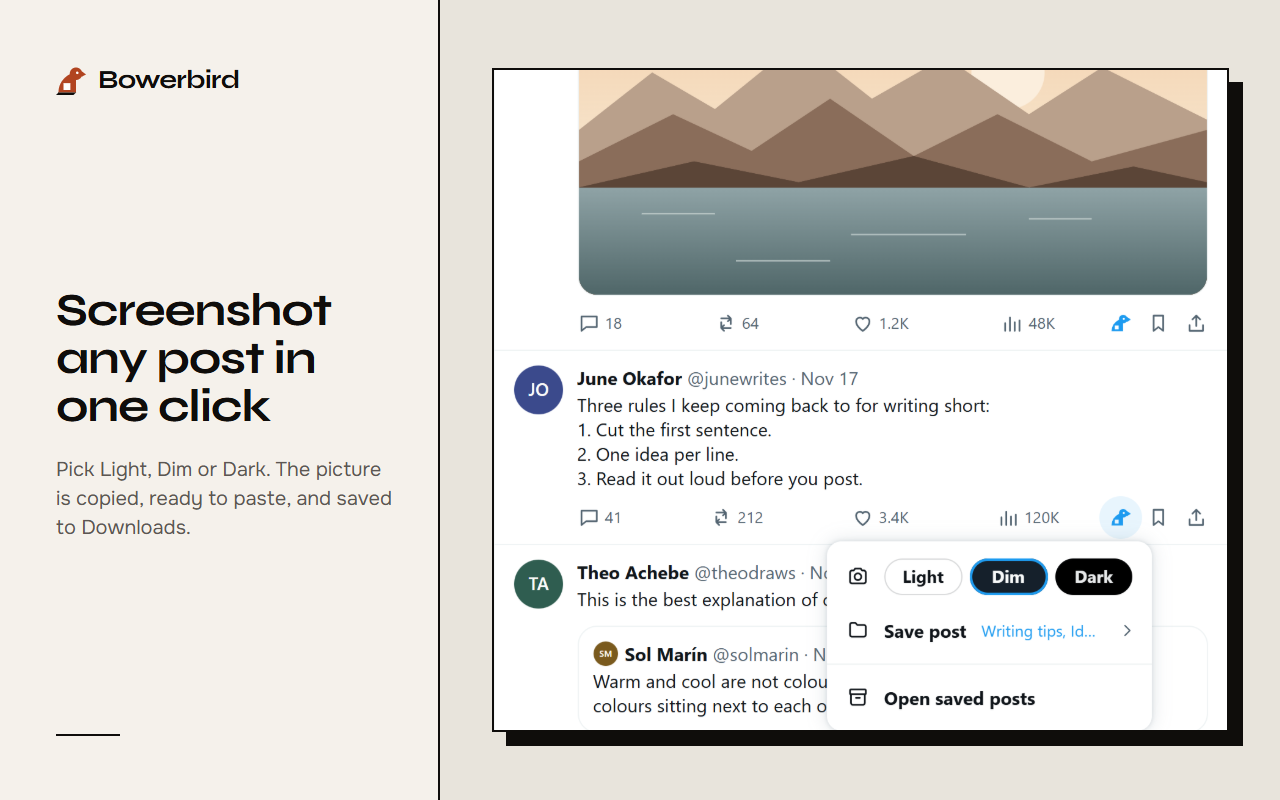
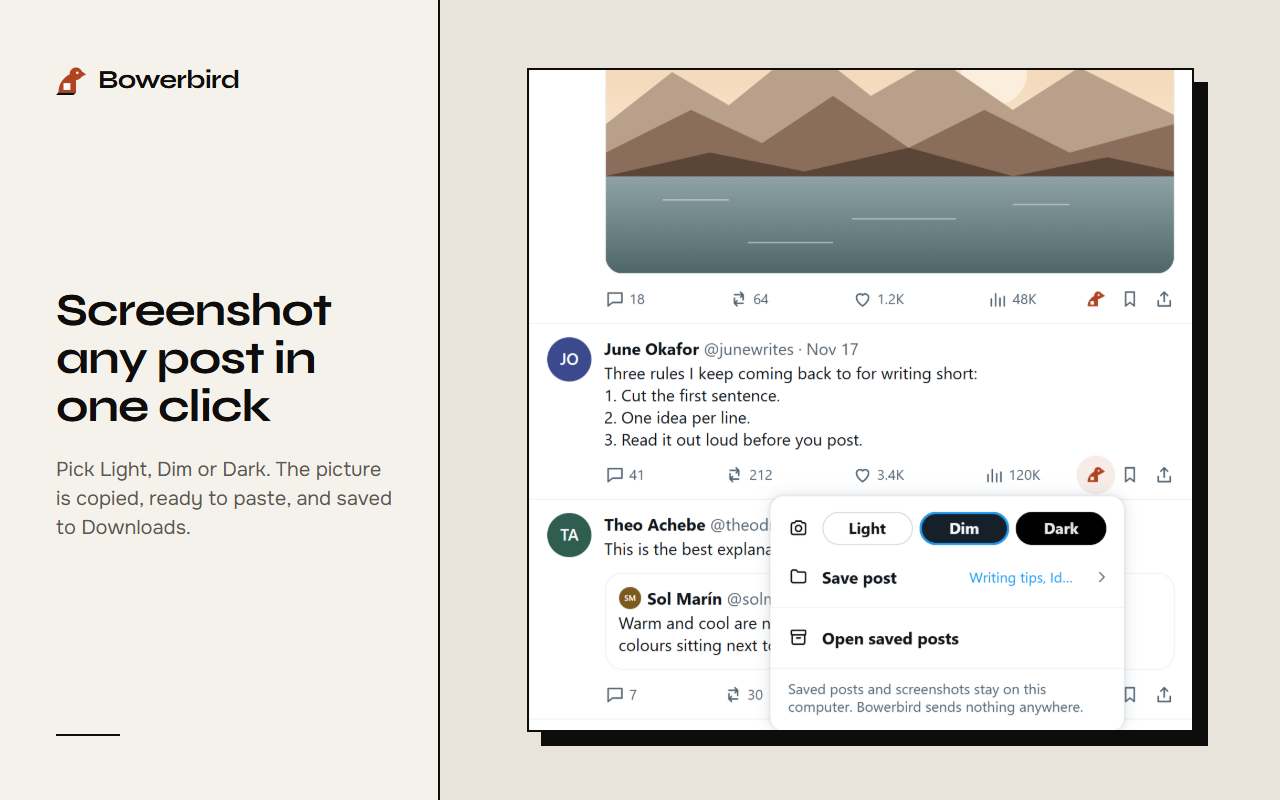
Get ready for Chrome Web Store review
- Show what Bowerbird keeps at the foot of its menu on x.com, before any
  screenshot or save (the store's disclosure rule since 1 August 2026).
- Use Bowerbird's rust, not X's blue, for the open and saved icon, so it
  is never a blue bird on X.
- Run only on x.com: twitter.com redirects there, so the match was unused.
- Use Google's Limited Use wording in the privacy policy, list what a
  saved post keeps in the store description, and give reviewers a public
  page that works signed out.
- README: declare trader or non-trader status.

diff --git a/docs/privacy.html b/docs/privacy.html
@@ -48,7 +48,7 @@
       <section aria-labelledby="reads">
         <h2 id="reads">What Bowerbird reads</h2>
         <div class="text">
-          <p>Bowerbird runs only on x.com and twitter.com. It adds its button under each post. It reads a post’s visible details (name, @handle, text, pictures, quoted post, date and counts) only when you click that button, and only to draw the screenshot or save the post.</p>
+          <p>Bowerbird runs only on x.com. It adds its button under each post. It reads a post’s visible details (name, @handle, text, pictures, quoted post, date and counts) only when you click that button, and only to draw the screenshot or save the post.</p>
           <p>It does not read your messages, your account details, your browsing on other sites or anything you type.</p>
         </div>
       </section>
@@ -75,7 +75,7 @@
       <section aria-labelledby="share">
         <h2 id="share">Sharing</h2>
         <div class="text">
-          <p>Bowerbird does not sell, share or transfer your data to anyone. It does not use your data for advertising, for credit or lending decisions, or for anything other than its two features. Its use of data follows the Chrome Web Store User Data Policy, including the Limited Use requirements.</p>
+          <p>Bowerbird does not sell, share or transfer your data to anyone. It does not use your data for advertising, for credit or lending decisions, or for anything other than its two features. Bowerbird’s use of information will adhere to the <a href="https://developer.chrome.com/docs/webstore/program-policies/policies">Chrome Web Store User Data Policy</a>, including the Limited Use requirements.</p>
         </div>
       </section>
 

diff --git a/src/content.js b/src/content.js
@@ -394,7 +394,12 @@
     });
     lib.addEventListener('mouseenter', hideSub);
 
-    root.append(shotRow, save, el('div', 'bb-sep'), lib);
+    // What Bowerbird keeps, shown before every screenshot or save (the store's disclosure rule).
+    const note = el('div', 'bb-note', 'Saved posts and screenshots stay on this computer. Bowerbird sends nothing anywhere.');
+    note.id = 'bb-note';
+    root.setAttribute('aria-describedby', note.id);
+
+    root.append(shotRow, save, el('div', 'bb-sep'), lib, el('div', 'bb-sep'), note);
     return { root, pills: [...pills.children], save, lib };
   }
 
@@ -634,6 +639,10 @@
       return { size, gap, rowGap, inflow: contentRight(slot.previousElementSibling) > left - 6 };
     });
     if (idle) document.documentElement.style.setProperty('--bb-idle', idle);
+    // Rust for the icon when open or saved: darker on X's light theme, lighter on dim and dark (both at least 3:1).
+    const light = pageTheme() === 'light';
+    document.documentElement.style.setProperty('--bb-on', light ? 'rgb(177, 68, 32)' : 'rgb(224, 112, 63)');
+    document.documentElement.style.setProperty('--bb-on-bg', light ? 'rgba(177, 68, 32, 0.1)' : 'rgba(224, 112, 63, 0.14)');
     slots.forEach((slot, i) => {
       const { size, gap, rowGap, inflow } = looks[i];
       if (size) slot.style.setProperty('--bb-size', size + 'px');

diff --git a/src/content.css b/src/content.css
@@ -38,19 +38,21 @@
   border-radius: 9999px;
   transition: background-color 0.2s;
 }
+/* Bowerbird's own rust, not X's blue, so the icon is clearly the extension's and never a blue bird on X.
+   content.js sets a lighter rust for X's dim and dark themes. */
 .bb-btn:hover,
 .bb-btn:focus-visible,
 .bb-btn.is-open,
 .bb-btn.is-saved {
-  color: rgb(29, 155, 240);
+  color: var(--bb-on, rgb(177, 68, 32));
 }
 .bb-btn:hover::before,
 .bb-btn:focus-visible::before,
 .bb-btn.is-open::before {
-  background-color: rgba(29, 155, 240, 0.1);
+  background-color: var(--bb-on-bg, rgba(177, 68, 32, 0.1));
 }
 .bb-btn:focus-visible::before {
-  box-shadow: 0 0 0 2px rgb(29, 155, 240);
+  box-shadow: 0 0 0 2px var(--bb-on, rgb(177, 68, 32));
 }
 .bb-btn > span {
   position: relative;
@@ -183,6 +185,13 @@
   height: 1px;
   margin: 6px 0;
   background: var(--line);
+}
+.bb-note {
+  padding: 4px 16px 8px;
+  color: var(--sub);
+  font-size: 13px;
+  font-weight: 400;
+  line-height: 16px;
 }
 
 /* folder list */

diff --git a/store/privacy-practices.md b/store/privacy-practices.md
@@ -10,7 +10,7 @@ Bowerbird helps people keep posts they find on x.com. It adds one button under e
 
 ## Permission justification
 
-Bowerbird asks for one permission, `storage`, and has no host permissions. Its content script only runs on x.com and twitter.com.
+Bowerbird asks for one permission, `storage`, and has no host permissions. Its content script only runs on x.com.
 
 **storage**
 
@@ -18,10 +18,10 @@ Bowerbird asks for one permission, `storage`, and has no host permissions. Its c
 Keeps the posts the user chooses to save (link, author name and handle, text, picture links and dates), the folder names the user makes, and the screenshot settings in chrome.storage.local on the user's own device, so they are there next time. Nothing is synced or sent anywhere.
 ```
 
-**Host permission** (the dashboard asks about this because the content script matches `https://x.com/*` and `https://twitter.com/*`)
+**Host permission** (the dashboard asks about this because the content script matches `https://x.com/*`)
 
 ```
-The content script runs only on x.com and twitter.com. It places the Bowerbird button under each post. When the user clicks that button, it reads that one post's visible details (name, handle, text, pictures, date) to draw the screenshot or save the post. It does not run on other sites and reads nothing until the user clicks.
+The content script runs only on x.com. It places the Bowerbird button under each post. When the user clicks that button, it reads that one post's visible details (name, handle, text, pictures, date) to draw the screenshot or save the post. It does not run on other sites and reads nothing until the user clicks.
 ```
 
 **Are you using remote code?** No, I am not using remote code.
@@ -36,6 +36,8 @@ The content script runs only on x.com and twitter.com. It places the Bowerbird b
 Leave every other box unticked: personally identifiable information, health, financial and payment, authentication, personal communications, location, web history, user activity.
 
 Why tick Website content when nothing leaves the device: Google's guidance counts data an extension handles and stores, even only locally. Bowerbird stores the text, picture links and links of the posts the user saves. Ticking it is the accurate, safe answer. It handles nothing else: it does not log clicks, keystrokes, pages visited or account details.
+
+Prominent disclosure (required for all data handling since 1 August 2026, even local-only): the Bowerbird menu on x.com opens before every screenshot or save, and its last line says "Saved posts and screenshots stay on this computer. Bowerbird sends nothing anywhere." The store description lists what a saved post keeps, and the saved-posts page repeats it under Settings.
 
 **Certifications.** Tick all three:
 
@@ -56,10 +58,10 @@ The page is `docs/privacy.html` in this repo, served by GitHub Pages from the `d
 ## Test instructions (optional field, helps the reviewer)
 
 ```
-No account or login is needed for Bowerbird itself.
-1. Open https://x.com and go to any post. Signed in works best; signed out, X shows fewer buttons under a post and the Bowerbird icon sits at the end of that row.
-2. Click the Bowerbird icon (a small bird) next to the Bookmark button under the post.
+No account or login is needed, for Bowerbird or for X.
+1. Open https://x.com/googlechrome. This public page shows posts without signing in to X. (Signed in, any post on x.com works.)
+2. Under a post, click the Bowerbird icon (a small bird). Signed out, X shows fewer buttons, so the icon sits at the end of that row; signed in, it sits just left of Bookmark.
 3. Pick Light, Dim or Dark: a PNG of the post is copied to the clipboard and saved to Downloads.
 4. Open the menu again, point at Save post, type a folder name and press Enter to save the post into a new folder.
-5. Click the Bowerbird toolbar button to open the saved posts page (search, folders, Settings, Export and Import).
+5. Click the Bowerbird toolbar button (pin it from the puzzle-piece menu first) to open the saved posts page: search, folders, Settings, Export and Import.
 ```

diff --git a/store/listing.md b/store/listing.md
@@ -34,9 +34,9 @@ Folders
 • Export everything to a file, and import it again on another computer.
 
 Private by design
-• Everything stays in your browser on your computer. No account, no ads, no analytics, no tracking.
+• Everything stays in your browser on your computer. A saved post keeps its link, author name and @handle, text, picture links and date. No account, no ads, no analytics, no tracking.
 • There is no server and no remote code. Pictures load from X's image server only to show them.
-• It runs only on x.com and twitter.com, and reads only what you click.
+• It runs only on x.com, and reads only the post you click.
 
 Keyboard friendly
 • Tab to the button, then use the arrow keys, Enter and Esc to move through the menus.

diff --git a/README.md b/README.md
@@ -79,6 +79,7 @@ You do steps 1 and 2 yourself: Google needs your account, your payment and your 
 2. Open the Developer Dashboard: https://chrome.google.com/webstore/devconsole
 3. Accept the developer agreement and pay the one-time registration fee. The page shows the amount.
 4. In **Account**, set a publisher name and verify your contact email.
+5. In **Account**, declare whether you are a **trader** (the EU asks every publisher). A free extension made as a personal project is usually **non-trader**. A trader must show a legal name, address and phone number on the listing.
 
 ### 2. Build the zip
 
